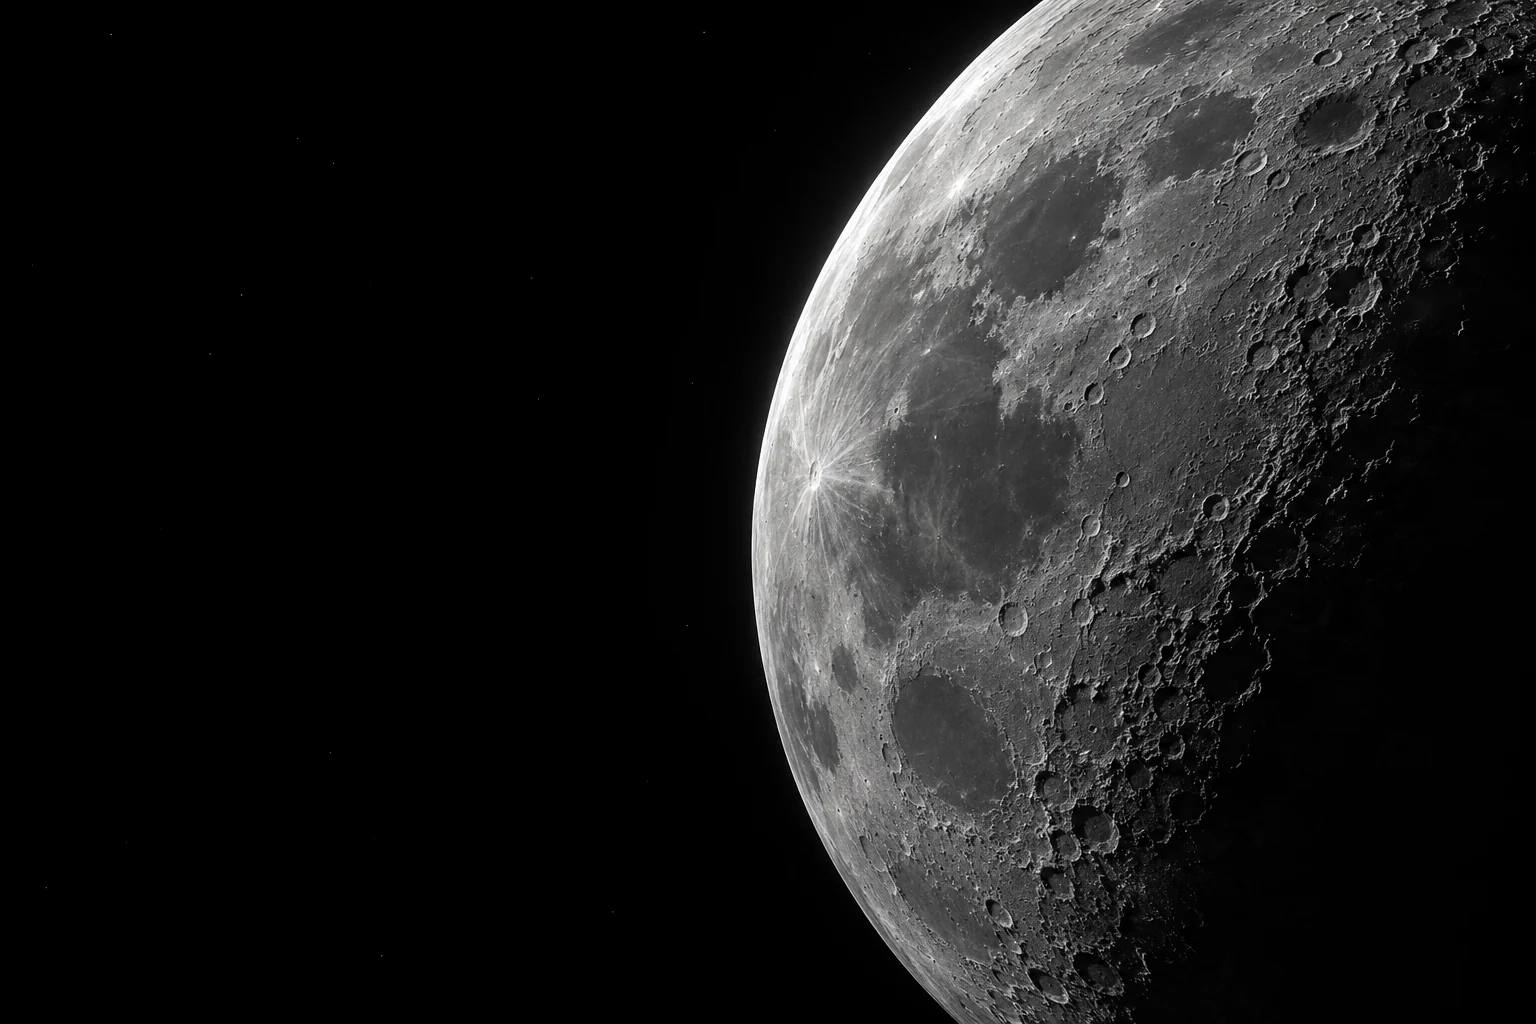
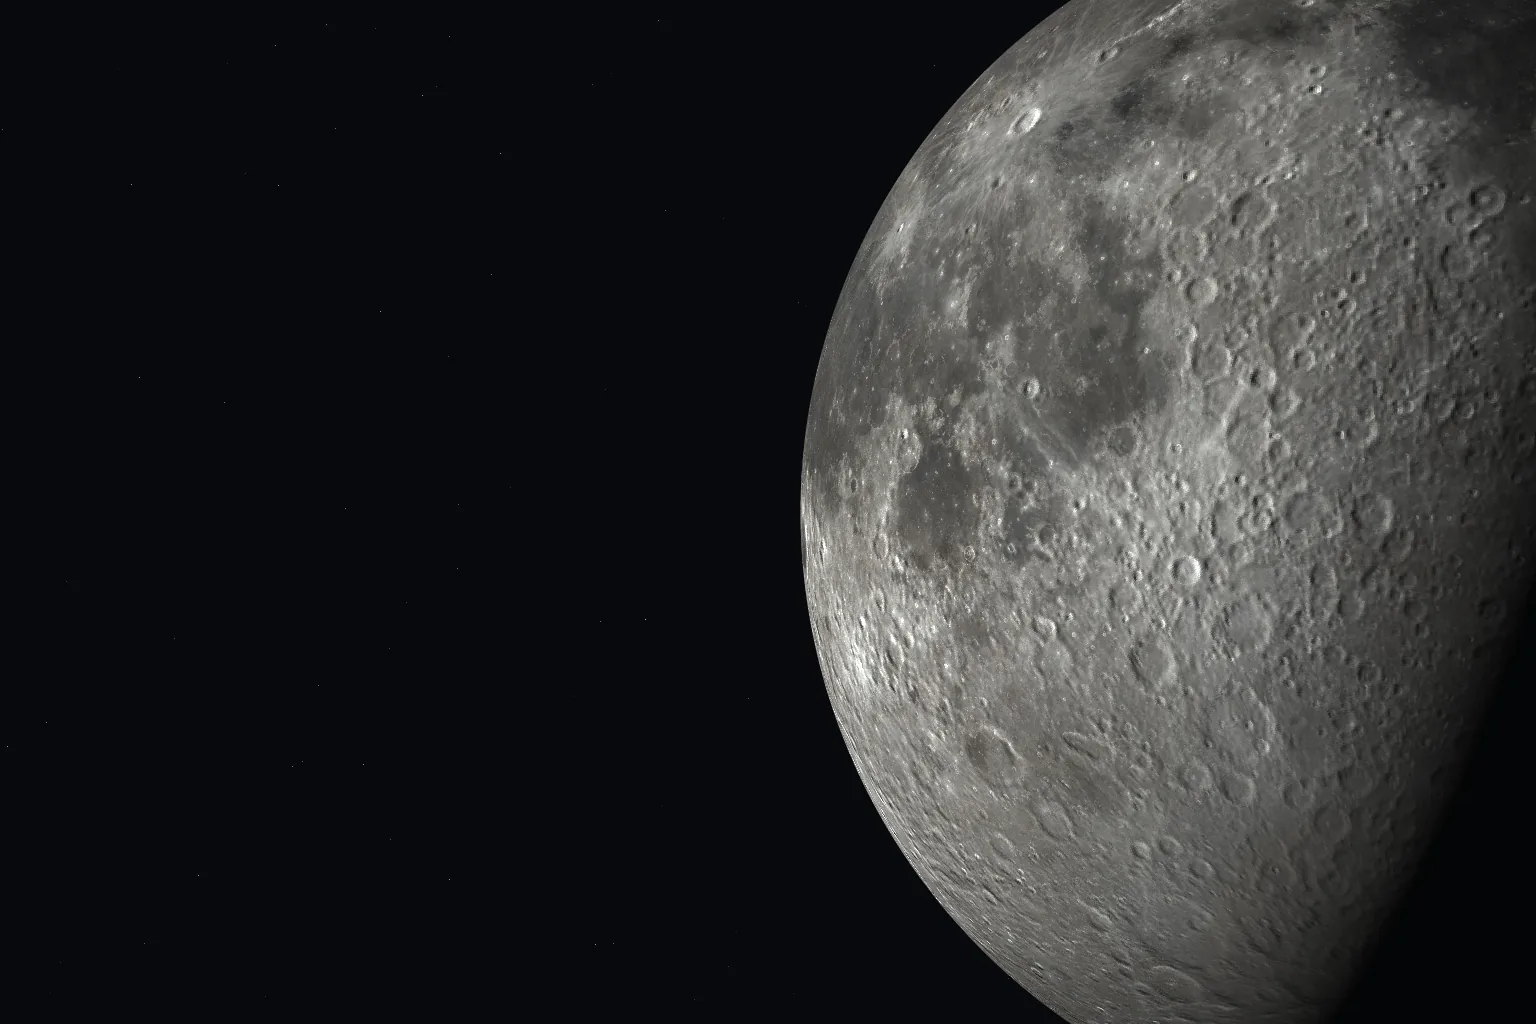
fix(frontend): render the Home Moon from NASA data

diff --git a/docs/about-page.md b/docs/about-page.md
@@ -19,9 +19,7 @@ Source pages opened on 2026-11-14:
 
 The context link is the 2026 Lunar Landing Site Navigator challenge. The challenge page and submission guide intermittently failed to open during planning; the About page makes no claim of compliance with an unverified submission guide.
 
-`frontend/src/assets/about/lunar-hero.webp` is decorative generated artwork used on Home, not NASA imagery or a calculated lunar view. It was created with the built-in imagegen tool, then encoded as WebP (about 149 KiB) using existing Pillow. The generated original is preserved outside the repository. The astronaut illustrations are native SVG components with initials and small suit variations, not likenesses.
-
-Image prompt: Photorealistic decorative lunar crescent for a lunar planning website hero background, landscape wide 1536x1024. Almost black empty space on left 55 percent reserved for HTML text added separately; large grey illuminated Moon globe on right, cropped by the top, bottom and right edges, sharply detailed craters, light from upper left grazing surface, quiet cinematic realistic photography, grayscale, very sparse tiny stars. Moon starts around horizontal center and sweeps diagonally to upper right. No text, no letters, no logos, no colored glow, no UI, no astronaut, no frame, no labels. This is decorative concept art, not a scientific visualization.
+`frontend/src/assets/about/lunar-hero.webp` is the Home background: the Moon rendered from NASA data, not generated artwork. The surface colour is the LRO LROC colour map from the NASA SVS CGI Moon Kit (`frontend/src/assets/moon/lroc-color-4k.jpg`, public domain), with relief shading from `ldem-relief-1k.jpg`. It is an orthographic view centred on 42°S, 20°E with light from the left; 120 faint stars and the background colour `#07090c` are drawn procedurally. The 1536×1024 frame is encoded as WebP (about 89 KiB). It replaces an earlier SI-generated image, so the page needs no SI watermark. The astronaut illustrations are native SVG components with initials and small suit variations, not likenesses.
 
 ## Validation
 
